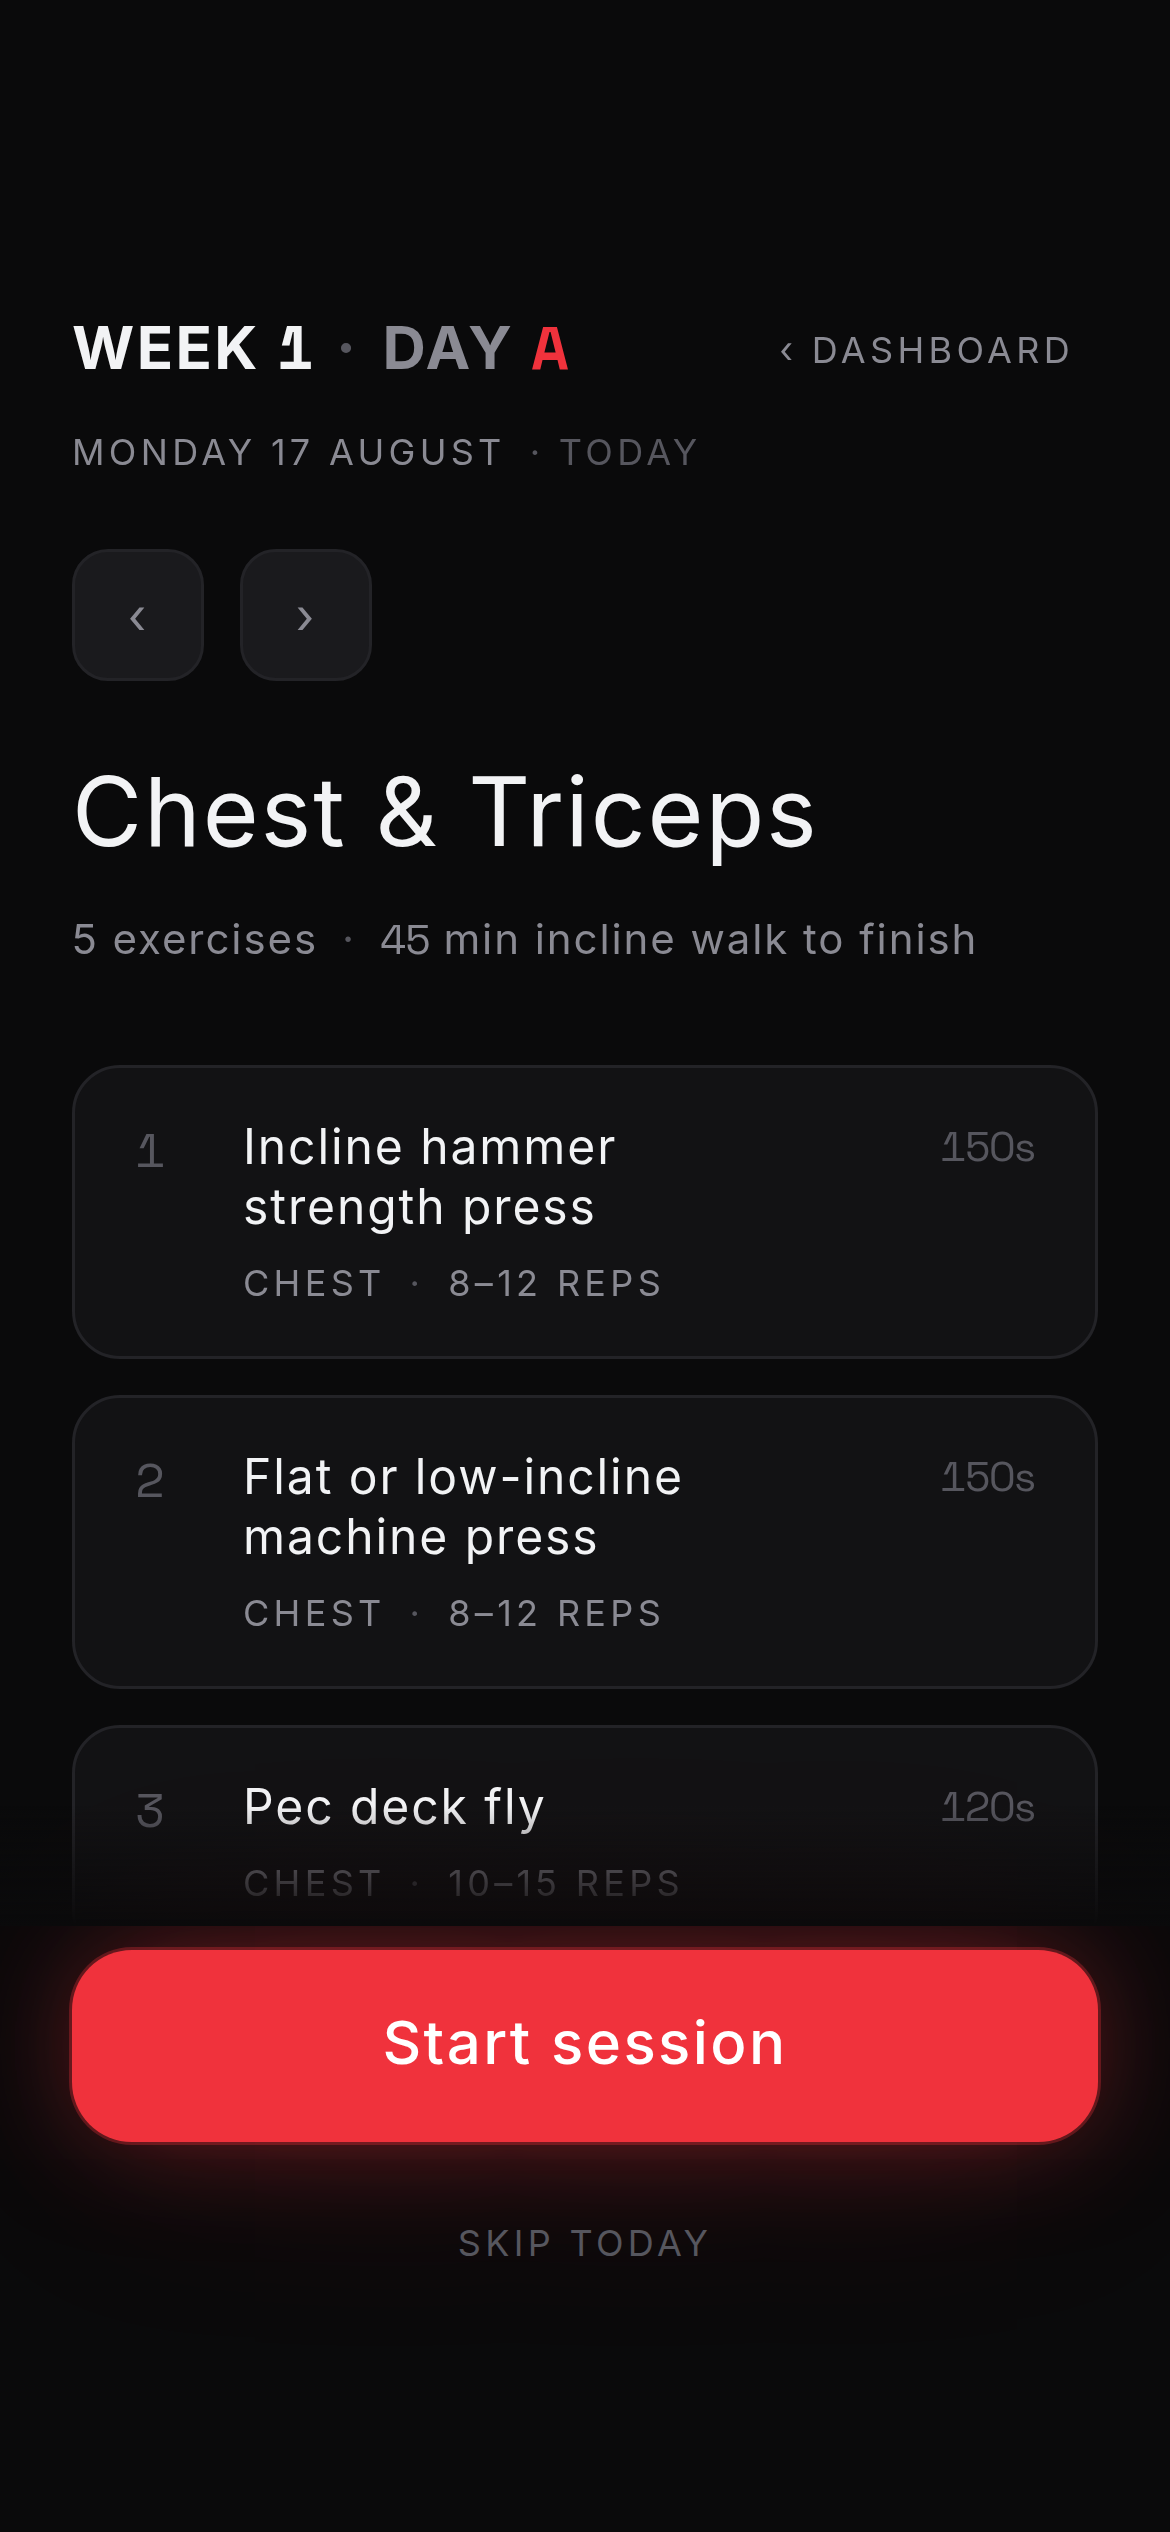
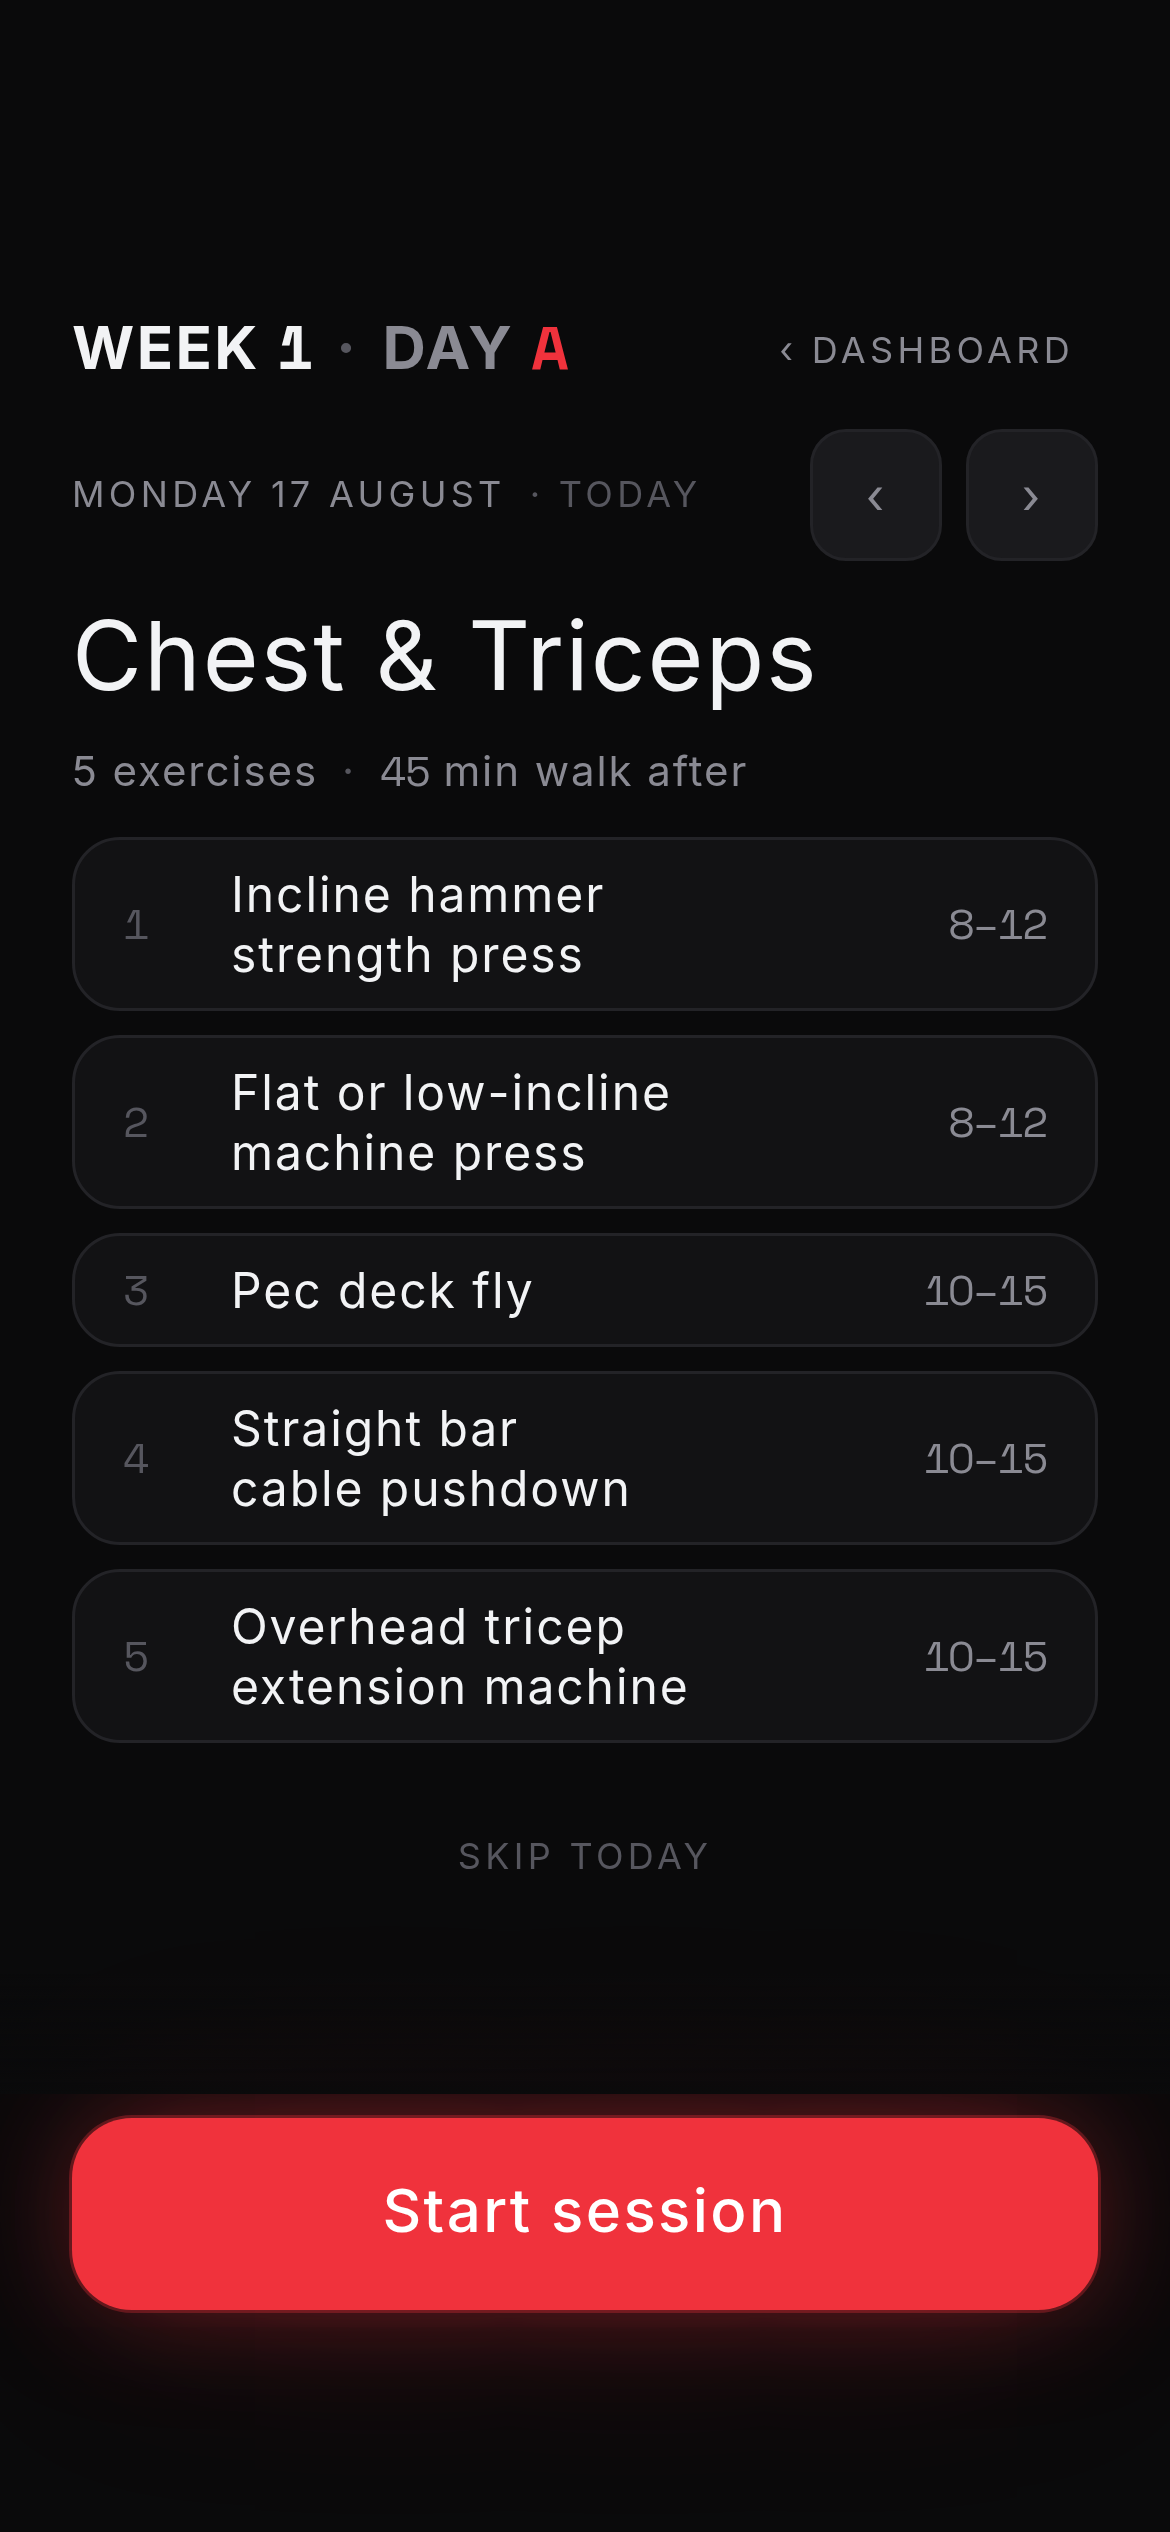
Fit the whole day plan above the action bar on every phone
Owner report: opening a day forced a scroll to see the workout. The plan
list is now one line per exercise (name + rep range; muscle group and rest
live on the session screen), the day chevrons sit on the date line they
change, and Skip today moved out of the pinned bar so only the primary is
pinned. The screenshot audit now fails any build whose exercise list runs
past the fold on the day screen — verified across all four phone sizes,
iPhone SE included.

Claude-Session: https://claude.ai/code/session_01CAbP54sosu1znVWxFPtxP3

diff --git a/src/features/home/HomeScreen.tsx b/src/features/home/HomeScreen.tsx
@@ -113,9 +113,16 @@ function StartNewBlock() {
   )
 }
 
+/**
+ * The day scrubber, sitting on the date line itself since that is what it
+ * changes. It used to be its own row below the header, which cost 68px of a
+ * phone screen — the reason a five-exercise day could not fit above the
+ * action bar (owner report, from real use). Returning home lives in the
+ * action bar, in the thumb zone — one "Back to today", not two.
+ */
 function DayNav({ nav }: { nav: DayNavState }) {
   return (
-    <div className="mt-6 flex items-center gap-3">
+    <span className="flex shrink-0 items-center gap-2">
       <button
         type="button"
         aria-label="Previous day"
@@ -132,9 +139,7 @@ function DayNav({ nav }: { nav: DayNavState }) {
       >
         ›
       </button>
-      {/* Returning home lives in the action bar, in the thumb zone — one
-          "Back to today", not two. */}
-    </div>
+    </span>
   )
 }
 
@@ -251,24 +256,16 @@ function TrainingDay({
             </button>
           </div>
         ) : (
-          <>
-            <Button onClick={() => void start()} disabled={starting}>
-              {inProgress
-                ? 'Resume session'
-                : resumingOld
-                  ? 'Finish previous session'
-                  : 'Start session'}
-            </Button>
-            {!inProgress && !resumingOld ? (
-              <button
-                type="button"
-                onClick={() => void skipToday(date)}
-                className="mt-3 min-h-touch-min w-full rounded-md text-xs tracking-wider text-text-muted uppercase"
-              >
-                Skip today
-              </button>
-            ) : null}
-          </>
+          // Only the primary lives in the bar — "Skip today" sits under the
+          // exercise list instead, buying the list ~56px of viewport, which
+          // is what lets a whole day fit on an iPhone SE.
+          <Button onClick={() => void start()} disabled={starting}>
+            {inProgress
+              ? 'Resume session'
+              : resumingOld
+                ? 'Finish previous session'
+                : 'Start session'}
+          </Button>
         )
       }
     >
@@ -277,48 +274,60 @@ function TrainingDay({
         position={position}
         isToday={nav.isToday}
         dayLetter={template.letter}
+        nav={nav}
       />
-      <DayNav nav={nav} />
 
       {/* The header already states WEEK n · DAY X, so this is the muscle
           groups alone rather than a second giant letter. */}
-      <p className="mt-6 text-2xl leading-snug text-balance text-text">
+      <p className="mt-3 text-2xl leading-snug text-balance text-text">
         {template.name}
       </p>
 
       <DayStatus view={view} today={today} />
 
-      <p className="mt-3 text-sm text-text-secondary">
+      {/* Short enough to stay on one line at 375px — a wrapped meta line is
+          another row stolen from the exercise list below. */}
+      <p className="mt-2 text-sm text-text-secondary">
         {exercises.length} exercises
         <span className="mx-2 text-text-muted">·</span>
-        <span className="num">{view.cardioMinutes}</span> min incline walk to finish
+        <span className="num">{view.cardioMinutes}</span> min walk after
       </p>
 
-      <ul className="mt-8 flex flex-col gap-3">
+      {/* One line per exercise, so the whole workout fits above the action
+          bar on a phone (owner report: the old three-line cards forced a
+          scroll just to see what the day holds). Muscle group and rest time
+          live on the session screen, where they matter; here the question is
+          only "what am I doing today". Names still wrap, never truncate. */}
+      <ul className="mt-3 flex flex-col gap-2">
         {exercises.map((exercise, index) => (
           <li key={exercise.id}>
-            <Card className="flex items-start gap-4 px-5 py-4">
-              <span className="num w-5 shrink-0 text-base text-text-muted">
+            <Card className="flex items-center gap-4 px-4 py-2">
+              <span className="num w-5 shrink-0 text-sm text-text-muted">
                 {index + 1}
               </span>
-              <div className="min-w-0 flex-1">
-                {/* Never truncated — the movement name is the content. */}
-                <p className="text-base leading-snug text-balance text-text">
-                  {exercise.name}
-                </p>
-                <p className="mt-2 text-xs tracking-wider text-text-secondary uppercase">
-                  {exercise.muscleGroupName}
-                  <span className="mx-2 text-text-muted">·</span>
-                  {exercise.repTargetMin}–{exercise.repTargetMax} reps
-                </p>
-              </div>
-              <span className="num shrink-0 text-sm text-text-muted">
-                {exercise.restSeconds}s
+              <p className="min-w-0 flex-1 text-base leading-snug text-balance text-text">
+                {exercise.name}
+              </p>
+              <span className="num shrink-0 text-sm text-text-secondary">
+                {exercise.repTargetMin}–{exercise.repTargetMax}
               </span>
             </Card>
           </li>
         ))}
       </ul>
+
+      {/* The ready state's secondary action. Same reachability as the Start
+          button's else-branch above: today, nothing started or unfinished,
+          block still running. */}
+      {nav.isToday && !session && !unfinishedSession && !position?.isComplete ? (
+        <button
+          type="button"
+          onClick={() => void skipToday(date)}
+          className="mt-4 min-h-touch-min w-full rounded-md text-xs tracking-wider text-text-muted uppercase"
+        >
+          Skip today
+        </button>
+      ) : null}
 
       {nav.isToday ? <Streak streak={streak} /> : null}
     </Screen>
@@ -348,8 +357,7 @@ function RestDay({ view, nav }: { view: TodayView; nav: DayNavState }) {
         ) : undefined
       }
     >
-      <Header date={view.date} position={view.position} isToday={nav.isToday} />
-      <DayNav nav={nav} />
+      <Header date={view.date} position={view.position} isToday={nav.isToday} nav={nav} />
 
       {/* Centred in the space rather than stranded at the top — a rest day
           should look composed, not like a screen that failed to load. */}
@@ -390,11 +398,13 @@ function Header({
   position,
   isToday,
   dayLetter,
+  nav,
 }: {
   date: string
   position: TodayView['position']
   isToday: boolean
   dayLetter?: string | undefined
+  nav: DayNavState
 }) {
   return (
     <header>
@@ -423,13 +433,16 @@ function Header({
           ‹ Dashboard
         </button>
       </div>
-      <p className="mt-1 text-xs tracking-wider text-text-secondary uppercase">
-        {formatLongDate(date)}
-        {isToday ? <span className="ml-2 text-text-muted">· Today</span> : null}
-        {position?.isDeloadWeek ? (
-          <span className="ml-2 text-accent">· Deload</span>
-        ) : null}
-      </p>
+      <div className="mt-1 flex items-center justify-between gap-4">
+        <p className="text-xs tracking-wider text-text-secondary uppercase">
+          {formatLongDate(date)}
+          {isToday ? <span className="ml-2 text-text-muted">· Today</span> : null}
+          {position?.isDeloadWeek ? (
+            <span className="ml-2 text-accent">· Deload</span>
+          ) : null}
+        </p>
+        <DayNav nav={nav} />
+      </div>
     </header>
   )
 }

diff --git a/scripts/screenshot.ts b/scripts/screenshot.ts
@@ -171,8 +171,20 @@ async function audit(page: Page, insets: Device['insets']) {
       if (visibleBottom > window.innerHeight - bottom) underHomeIndicator += 1
     }
 
+    // The day's full exercise list must be readable without scrolling (owner
+    // report: the old three-line cards buried half the workout behind the
+    // pinned action button). Only measured when the screen has a list.
+    const lastRow = Array.from(
+      document.querySelectorAll<HTMLElement>('main ul li'),
+    ).pop()
+    const listFullyVisible =
+      !lastRow ||
+      !scrollerBox ||
+      lastRow.getBoundingClientRect().bottom <= scrollerBox.bottom + 1
+
     return {
       action,
+      listFullyVisible,
       safeArea: { underNotch, underHomeIndicator },
       documentScrollsVertically:
         document.documentElement.scrollHeight > document.documentElement.clientHeight,
@@ -241,8 +253,17 @@ async function main(): Promise<void> {
     return { context, page }
   }
 
-  function report(label: string, result: Awaited<ReturnType<typeof audit>>) {
+  function report(
+    label: string,
+    result: Awaited<ReturnType<typeof audit>>,
+    options?: { requireFullList?: boolean },
+  ) {
     const problems: string[] = []
+    // Enforced on the day-plan screen only: the dashboard's boards continue
+    // past the fold by design, but the workout list is the answer to "what am
+    // I doing today" and must never need a scroll to finish reading.
+    if (options?.requireFullList && !result.listFullyVisible)
+      problems.push('exercise list runs past the fold')
     if (result.documentScrollsHorizontally) problems.push('horizontal overflow')
     if (result.documentScrollsVertically) problems.push('page scrolls')
     if (result.action.present && !result.action.withinViewport)
@@ -341,6 +362,7 @@ async function main(): Promise<void> {
         report(
           `${device.label.padEnd(18)} ${String(device.width).padStart(3)}×${device.height}  ${shot.label}`,
           result,
+          { requireFullList: shot.name === 'home-training-day' },
         )
         await context.close()
       }

diff --git a/PLAN.md b/PLAN.md
@@ -532,6 +532,26 @@ word as well as a colour. The light theme carries the same identity one step
 deeper for contrast on white. Recorded here rather than silently contradicting
 the brief.
 
+### Interlude: the day plan fits one screen (owner report, from real use)
+
+Tapping a day opened a plan you could not finish reading: three-line
+exercise cards pushed half the workout behind the pinned Start/Resume
+button. Fixed by spending the screen on the list instead of chrome —
+
+- Each exercise is now one line: number, name (wrapping, never truncated),
+  rep range. Muscle group and rest time left the overview; they live on the
+  session screen, where they matter. The question here is only "what am I
+  doing today".
+- The ‹ › day chevrons moved onto the date line — they change the date, so
+  that is where they belong — reclaiming their old 68px row.
+- "Skip today" moved out of the pinned bar to below the list: only the
+  primary action needs pinning, and the bar shrinking by 56px is what lets
+  the whole day fit on an iPhone SE.
+
+The screenshot audit now enforces it: on the day-plan screen the full
+exercise list must sit above the fold, on every phone in the sweep. 16/16,
+all proofs re-run green.
+
 ### Phase 8 notes — the Part 7 critique
 
 Every screen was re-shot and read against Part 7, line by line. The honest
